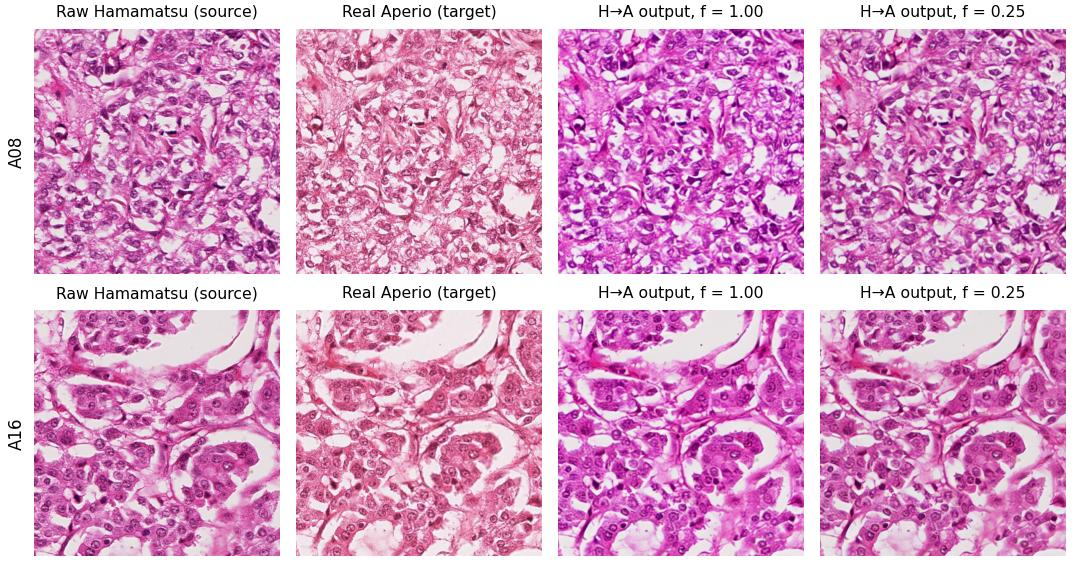
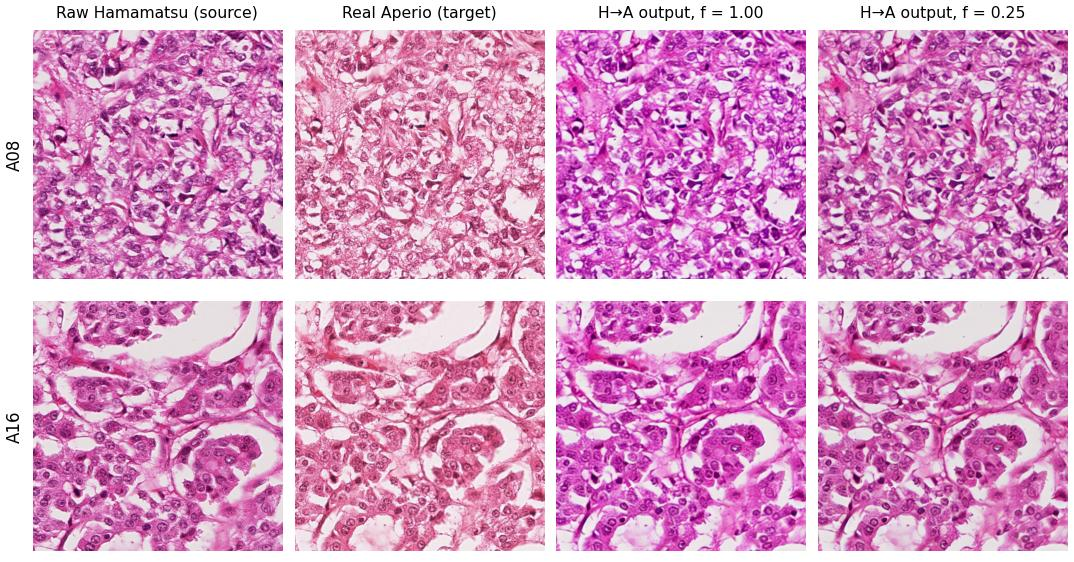
Paper appendix: fix clipped titles (H->A figure titles shown once above the top row; Lizard and LCM figures use constrained layout)

diff --git a/docs/report/make_extra_figures.py b/docs/report/make_extra_figures.py
@@ -41,7 +41,7 @@ save(fig, "roundtrip.jpg")
 # 3. P1-13 LCM arms, A06 (0,0), 512px; target = top-left 512 of the 1024 registered Hamamatsu
 src = Image.open(TIFF).convert("RGB").crop((0, 0, 512, 512))
 tgt = rgb(C / "real_hamamatsu_A06_00A_x0_y0.png").crop((0, 0, 512, 512))
-fig, axs = plt.subplots(1, 4, figsize=(6.44, 1.85))
+fig, axs = plt.subplots(1, 4, figsize=(6.44, 1.95), layout="constrained")  # tight_layout clipped the titles
 row(axs, [("Raw Aperio", src), ("Generic LCM-LoRA", rgb(M / "p113_generic.png")),
           ("Task-specific LCM", rgb(M / "p113_taskspecific.png")), ("Real Hamamatsu", tgt)])
 save(fig, "p1_13_lcm.jpg")
@@ -70,7 +70,7 @@ y0, x0, s = 350, 300, 400
 def ov(img, mask, col):
     o = img.copy(); m = mask.astype(bool); b = m & ~binary_erosion(m)
     o[b] = col; return o[y0:y0 + s, x0:x0 + s]
-fig, axs = plt.subplots(1, 4, figsize=(6.44, 1.85))
+fig, axs = plt.subplots(1, 4, figsize=(6.44, 1.95), layout="constrained")  # tight_layout clipped the titles
 row(axs, [("Original image", io[y0:y0 + s, x0:x0 + s]), ("Ground truth (Lizard)", ov(io, g > 0, (0, 255, 0))),
           ("HoVer-Net, original (A)", ov(io, mo, (255, 255, 0))), ("HoVer-Net, normalised (B)", ov(inn, mn, (0, 255, 255)))], fs=7)
 save(fig, "lizard_overlay.jpg")
@@ -123,7 +123,9 @@ for r, (y0, slide) in enumerate([(0, "A08"), (522, "A16")]):
     for c in range(4):
         x0 = 512 * c
         axs[r, c].imshow(P.crop((x0 + 14, y0 + 28, x0 + 498, y0 + 512)))
-        axs[r, c].set_title(COLS[c], fontsize=7.5); axs[r, c].set_xticks([]); axs[r, c].set_yticks([])
+        if r == 0:  # same columns in both rows: title once, so row-2 titles cannot crowd row 1
+            axs[r, c].set_title(COLS[c], fontsize=7.5)
+        axs[r, c].set_xticks([]); axs[r, c].set_yticks([])
         for s in axs[r, c].spines.values():
             s.set_visible(False)
     axs[r, 0].set_ylabel(slide, fontsize=8)
